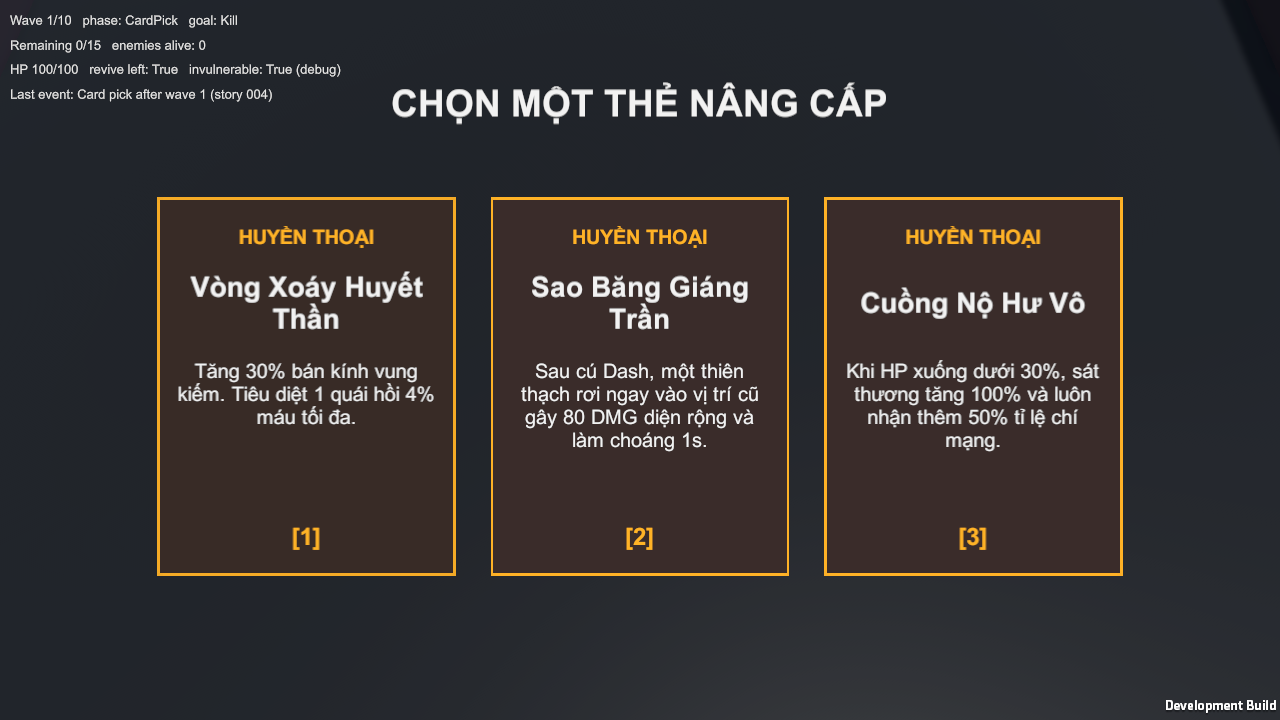
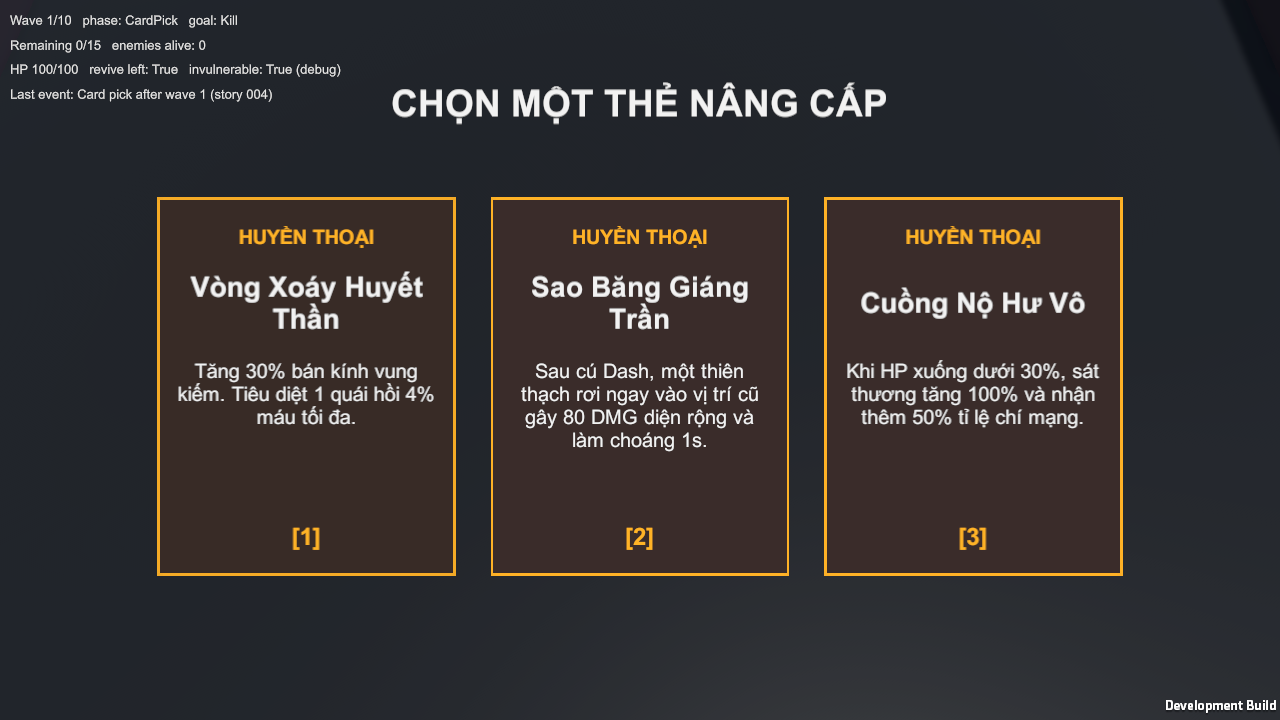
fix: Cuong No card text matches its conditional effect; close story 004
- Cuong No Hu Vo description: both bonuses apply only below 30% HP
  (drops "luon nhan them"); builder default updated to match
- Legendary-card evidence re-captured, evidence stamp refreshed
- Story 004 marked Complete with Completion Notes

Story: production/epics/micro-arena-survivor/story-004-upgrade-cards.md

Changed region(s): [[0.6562, 0.5194, 0.8438, 0.6417]]

diff --git a/Assets/Scripts/Gameplay/Editor/ArenaSceneBuilder.cs b/Assets/Scripts/Gameplay/Editor/ArenaSceneBuilder.cs
@@ -144,7 +144,7 @@ namespace MicroArena.Gameplay.Editor
                     "Sau cú Dash, một thiên thạch rơi ngay vào vị trí cũ gây 80 DMG diện rộng và làm choáng 1s.", CardRarity.Legendary,
                     CardEffectKind.Meteor, amount: 80f)),
                 GetOrCreateCard("Card_CuongNoHuVo", newCards, () => CreateCard("cuong_no", "Cuồng Nộ Hư Vô",
-                    "Khi HP xuống dưới 30%, sát thương tăng 100% và luôn nhận thêm 50% tỉ lệ chí mạng.", CardRarity.Legendary,
+                    "Khi HP xuống dưới 30%, sát thương tăng 100% và nhận thêm 50% tỉ lệ chí mạng.", CardRarity.Legendary,
                     CardEffectKind.VoidRage, percent: 100f, critChanceBonus: 0.5f)),
             };
             CardPoolConfig cardPool = GetOrCreateAsset($"{DataFolder}/CardPoolConfig.asset", () => CreateCardPool(cards));

diff --git a/production/epics/micro-arena-survivor/story-004-upgrade-cards.md b/production/epics/micro-arena-survivor/story-004-upgrade-cards.md
@@ -1,7 +1,7 @@
 # Story 004: Thẻ nâng cấp (9 thẻ, 3 mức hiếm)
 
 > **Epic**: micro-arena-survivor
-> **Status**: In Progress
+> **Status**: Complete
 > **Layer**: Feature
 > **Type**: Logic
 > **Estimate**: L
@@ -88,3 +88,18 @@
 
 - Depends on: `story-001-kaelen-core-combat.md`, `story-003-arena-waves.md`
 - Unlocks: `story-007-hud-game-feel.md`
+
+---
+
+## Completion Notes
+
+**Completed**: 2026-11-05
+**Criteria**: 8/8 passing (Common cards, card pick and reset: playtest `production/qa/evidence/story-004-upgrade-cards/playtest-m1.md`; Rare and Legendary cards: owner confirmed in play; Vòng Xoáy rule: `tools/card-rule-check/`, 64/64 PASS)
+**Deviations**:
+- ADVISORY: card-pick UI uses legacy `Text` + `LegacyRuntime.ttf` (deprecated; diacritics rely on OS fonts). Story 007: switch to a TextMeshPro font with Vietnamese glyphs.
+- ADVISORY: UI strings are not localized (no localization system yet).
+- ADVISORY: `GamePause` is static (reset on `SubsystemRegistration`) rather than injected.
+- ADVISORY: no EditMode tests; the rule check lives in `tools/card-rule-check/` and is copied into `Assets/` to run (see its README).
+- Decisions: Cuồng Nộ applies below 30% HP only (card text updated to match); repeated Rare/Legendary picks add their numbers; Lôi Chấn 4 m chain, Sao Băng 3 m / 0.4 s; debug-only `-arenaForceCards`.
+**Test Evidence**: waived at qa.level minimal; screenshots in `production/qa/evidence/story-004-upgrade-cards/` and `production/qa/evidence/story-004-cards.png`
+**Reviewed by**: self, no independent review
